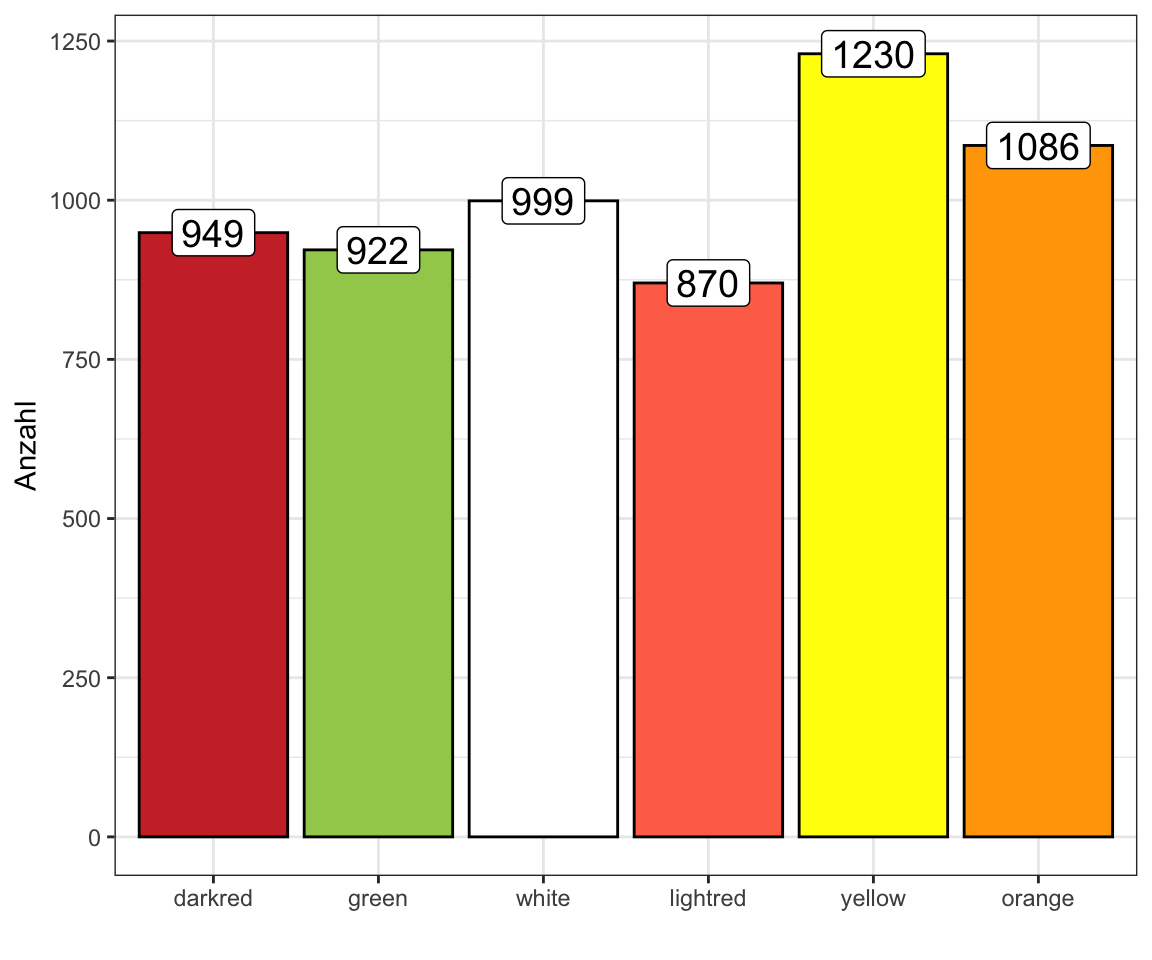
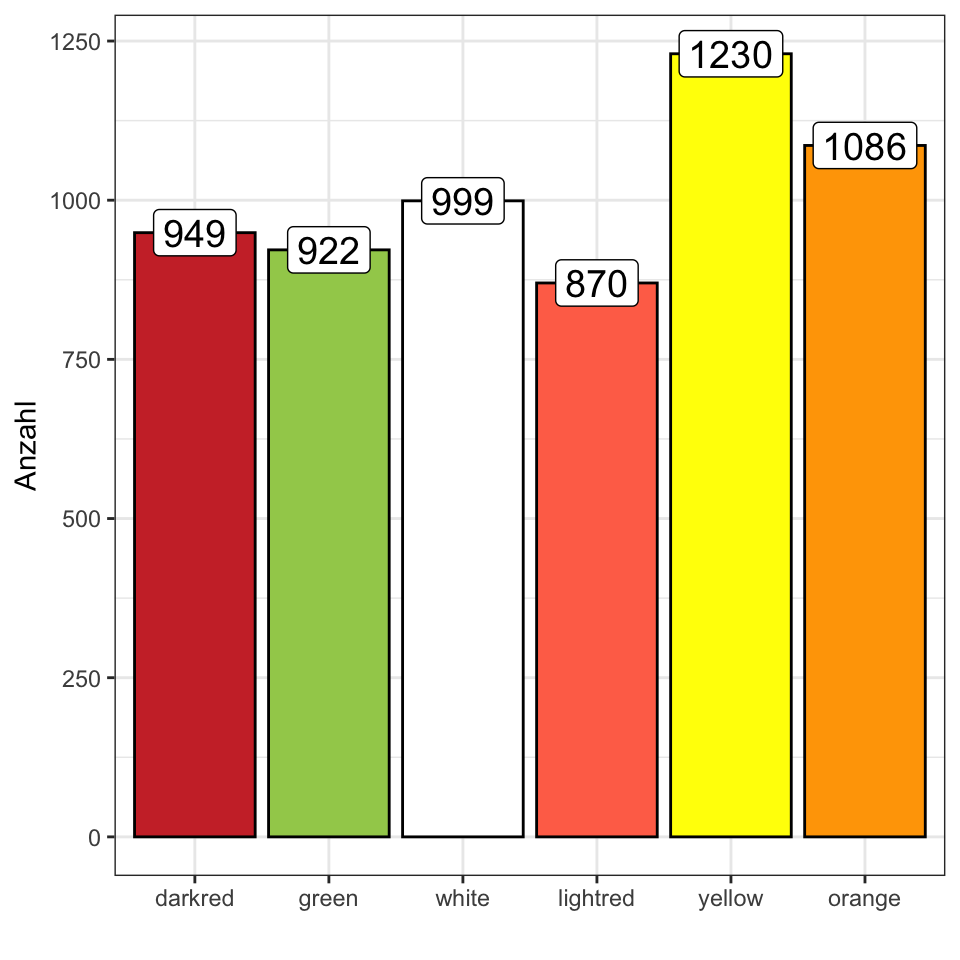
added text

diff --git a/docs/eda-distribution.html b/docs/eda-distribution.html
@@ -738,7 +738,7 @@ div.csl-indent {
 
 </header>
 
-<p><em>Letzte Änderung am 18. November 2023 um 16:28:23</em></p>
+<p><em>Letzte Änderung am 18. November 2023 um 17:16:51</em></p>
 <blockquote class="blockquote">
 <p><em>“I’m your density. I mean - your destiny.” — George McFly in Zurück in die Zukunft</em></p>
 </blockquote>
@@ -1249,7 +1249,7 @@ P_\lambda (k) = \frac{\lambda^k}{k!}\, \mathrm{e}^{-\lambda}
 <div class="cell-output-display quarto-layout-cell quarto-layout-cell-subref" style="flex-basis: 50.0%;justify-content: center;">
 <div id="fig-gummi-mostliked-1" class="quarto-figure quarto-figure-center anchored">
 <figure class="figure">
-<p><img src="eda-distribution_files/figure-html/fig-gummi-mostliked-1.png" class="img-fluid figure-img" data-ref-parent="fig-gummi-mostliked" width="576"></p>
+<p><img src="eda-distribution_files/figure-html/fig-gummi-mostliked-1.png" class="img-fluid figure-img" data-ref-parent="fig-gummi-mostliked" width="480"></p>
 <figcaption class="figure-caption">(a) Anzahl am liebsten gemochten Gummibärchen aufgeteilt nach Geschlecht.</figcaption>
 </figure>
 </div>
@@ -1257,14 +1257,46 @@ P_\lambda (k) = \frac{\lambda^k}{k!}\, \mathrm{e}^{-\lambda}
 <div class="cell-output-display quarto-layout-cell quarto-layout-cell-subref" style="flex-basis: 50.0%;justify-content: center;">
 <div id="fig-gummi-mostliked-2" class="quarto-figure quarto-figure-center anchored">
 <figure class="figure">
-<p><img src="eda-distribution_files/figure-html/fig-gummi-mostliked-2.png" class="img-fluid figure-img" data-ref-parent="fig-gummi-mostliked" width="576"></p>
-<figcaption class="figure-caption">(b) Anzahl der Gummibärchen pro Tüte nach Farbe.</figcaption>
+<p><img src="eda-distribution_files/figure-html/fig-gummi-mostliked-2.png" class="img-fluid figure-img" data-ref-parent="fig-gummi-mostliked" width="480"></p>
+<figcaption class="figure-caption">(b) Anzahl der Gummibärchen aufgeteilt nach der Farbe.</figcaption>
 </figure>
 </div>
 </div>
 </div>
 <p></p><figcaption class="figure-caption">Abbildung&nbsp;17.10— Histogramme der am liebsten gemochten Gummibärchchen im Vergleich zum Inhalt der Tütchen.</figcaption><p></p>
 </figure>
+</div>
+<div class="callout callout-style-default callout-note callout-titled">
+<div class="callout-header d-flex align-content-center" data-bs-toggle="collapse" data-bs-target=".callout-2-contents" aria-controls="callout-2" aria-expanded="false" aria-label="Toggle callout">
+<div class="callout-icon-container">
+<i class="callout-icon"></i>
+</div>
+<div class="callout-title-container flex-fill">
+Gibt es einen signifikanten Unterschied für weiße Gummibärchen?
+</div>
+<div class="callout-btn-toggle d-inline-block border-0 py-1 ps-1 pe-0 float-end"><i class="callout-toggle"></i></div>
+</div>
+<div id="callout-2" class="callout-2-contents callout-collapse collapse">
+<div class="callout-body-container callout-body">
+<p>Wenn wir testen wollen, ob es einen signifikanten Unterschied zwischen den Vorlieben zwischen Männern und Frauen für den Geschmack von weißen Gummibärchen gibt, dann können wir die Funktion <code>prop.test()</code> nutzen, die zwei Anteile vergleicht. Wir geben hier nur nicht die Anteile <span class="math inline">\(p_1 = 28/69\)</span> und <span class="math inline">\(p2 = 41/69\)</span> als Wahrscheinlichkeiten sondern eben als absolute Zahlen in die Funktion.</p>
+<div class="cell">
+<div class="sourceCode cell-code" id="cb17"><pre class="sourceCode r code-with-copy"><code class="sourceCode r"><span id="cb17-1"><a href="#cb17-1" aria-hidden="true" tabindex="-1"></a><span class="fu">prop.test</span>(<span class="at">x =</span> <span class="fu">c</span>(<span class="dv">28</span>, <span class="dv">41</span>), <span class="at">n =</span> <span class="fu">c</span>(<span class="dv">69</span>, <span class="dv">69</span>))</span></code><button title="In die Zwischenablage kopieren" class="code-copy-button"><i class="bi"></i></button></pre></div>
+<div class="cell-output cell-output-stdout">
+<pre><code>
+    2-sample test for equality of proportions with continuity correction
+
+data:  c(28, 41) out of c(69, 69)
+X-squared = 4.1739, df = 1, p-value = 0.04105
+alternative hypothesis: two.sided
+95 percent confidence interval:
+ -0.36675381 -0.01005778
+sample estimates:
+   prop 1    prop 2 
+0.4057971 0.5942029 </code></pre>
+</div>
+</div>
+</div>
+</div>
 </div>
 </section>
 <section id="sec-binom" class="level2 page-columns page-full" data-number="17.7">
@@ -1312,35 +1344,35 @@ Pr(Y = 3) &amp;= \binom {5}{3} 0.5^{3} (1-0.5)^{5-3} \\
 \]</span></p>
 <p>Wir immer können wir die ganze Rechnung dann auch in R durchführen. Dank der Funktion <code>choose()</code> können wir schnell den Binomialkoeffizienten berechnen. Der Rest ist dann nur noch das Einsetzen.</p>
 <div class="cell">
-<div class="sourceCode cell-code" id="cb17"><pre class="sourceCode r code-with-copy"><code class="sourceCode r"><span id="cb17-1"><a href="#cb17-1" aria-hidden="true" tabindex="-1"></a><span class="fu">choose</span>(<span class="dv">5</span>,<span class="dv">3</span>) <span class="sc">*</span> <span class="fl">0.5</span><span class="sc">^</span><span class="dv">3</span> <span class="sc">*</span> <span class="fl">0.5</span><span class="sc">^</span><span class="dv">2</span></span></code><button title="In die Zwischenablage kopieren" class="code-copy-button"><i class="bi"></i></button></pre></div>
+<div class="sourceCode cell-code" id="cb19"><pre class="sourceCode r code-with-copy"><code class="sourceCode r"><span id="cb19-1"><a href="#cb19-1" aria-hidden="true" tabindex="-1"></a><span class="fu">choose</span>(<span class="dv">5</span>,<span class="dv">3</span>) <span class="sc">*</span> <span class="fl">0.5</span><span class="sc">^</span><span class="dv">3</span> <span class="sc">*</span> <span class="fl">0.5</span><span class="sc">^</span><span class="dv">2</span></span></code><button title="In die Zwischenablage kopieren" class="code-copy-button"><i class="bi"></i></button></pre></div>
 <div class="cell-output cell-output-stdout">
 <pre><code>[1] 0.3125</code></pre>
 </div>
 </div>
 <p>Auch hier geht es natürlich auch in R noch einen Schritt schneller. Leider heißt dann wieder alles anders. Wir wollen <code>x = k = 3</code> Erfolge aus <code>size = n = 5</code> Versuchen mit einer Erfolgswahrscheinlichkeit von <code>prob = 0.5</code>. Daran muss man sich dann gewöhnen, dass sich die Begrifflichkeiten dann doch immer mal wieder ändern.</p>
 <div class="cell">
-<div class="sourceCode cell-code" id="cb19"><pre class="sourceCode r code-with-copy"><code class="sourceCode r"><span id="cb19-1"><a href="#cb19-1" aria-hidden="true" tabindex="-1"></a><span class="fu">dbinom</span>(<span class="at">x =</span> <span class="dv">3</span>, <span class="at">size =</span> <span class="dv">5</span>, <span class="at">prob =</span> <span class="fl">0.5</span>)</span></code><button title="In die Zwischenablage kopieren" class="code-copy-button"><i class="bi"></i></button></pre></div>
+<div class="sourceCode cell-code" id="cb21"><pre class="sourceCode r code-with-copy"><code class="sourceCode r"><span id="cb21-1"><a href="#cb21-1" aria-hidden="true" tabindex="-1"></a><span class="fu">dbinom</span>(<span class="at">x =</span> <span class="dv">3</span>, <span class="at">size =</span> <span class="dv">5</span>, <span class="at">prob =</span> <span class="fl">0.5</span>)</span></code><button title="In die Zwischenablage kopieren" class="code-copy-button"><i class="bi"></i></button></pre></div>
 <div class="cell-output cell-output-stdout">
 <pre><code>[1] 0.3125</code></pre>
 </div>
 </div>
 <p>Was wäre wenn wir jetzt die Wahrscheinlichkeit <span class="math inline">\(Pr(Y \leq 3)\)</span> berechnen wollen? Also nicht <em>exakt</em> die Wahrscheinlichkeit für <span class="math inline">\(k=3\)</span> Erfolge sondern eben <span class="math inline">\(k\)</span> Erfolge oder weniger <span class="math inline">\(k \leq 3\)</span>. Dann müssen wir die Wahrscheinlichkeiten für <span class="math inline">\(Pr(Y = 0)\)</span>, <span class="math inline">\(Pr(Y = 1)\)</span>, <span class="math inline">\(Pr(Y = 2 )\)</span> und <span class="math inline">\(Pr(Y = 3)\)</span> berechnen und diese Wahrscheinlichkeiten aufaddieren.</p>
 <div class="cell">
-<div class="sourceCode cell-code" id="cb21"><pre class="sourceCode r code-with-copy"><code class="sourceCode r"><span id="cb21-1"><a href="#cb21-1" aria-hidden="true" tabindex="-1"></a><span class="fu">dbinom</span>(<span class="dv">0</span>, <span class="dv">5</span>, <span class="fl">0.5</span>) <span class="sc">+</span> <span class="fu">dbinom</span>(<span class="dv">1</span>, <span class="dv">5</span>, <span class="fl">0.5</span>) <span class="sc">+</span> <span class="fu">dbinom</span>(<span class="dv">2</span>, <span class="dv">5</span>, <span class="fl">0.5</span>) <span class="sc">+</span> <span class="fu">dbinom</span>(<span class="dv">3</span>, <span class="dv">5</span>, <span class="fl">0.5</span>)</span></code><button title="In die Zwischenablage kopieren" class="code-copy-button"><i class="bi"></i></button></pre></div>
+<div class="sourceCode cell-code" id="cb23"><pre class="sourceCode r code-with-copy"><code class="sourceCode r"><span id="cb23-1"><a href="#cb23-1" aria-hidden="true" tabindex="-1"></a><span class="fu">dbinom</span>(<span class="dv">0</span>, <span class="dv">5</span>, <span class="fl">0.5</span>) <span class="sc">+</span> <span class="fu">dbinom</span>(<span class="dv">1</span>, <span class="dv">5</span>, <span class="fl">0.5</span>) <span class="sc">+</span> <span class="fu">dbinom</span>(<span class="dv">2</span>, <span class="dv">5</span>, <span class="fl">0.5</span>) <span class="sc">+</span> <span class="fu">dbinom</span>(<span class="dv">3</span>, <span class="dv">5</span>, <span class="fl">0.5</span>)</span></code><button title="In die Zwischenablage kopieren" class="code-copy-button"><i class="bi"></i></button></pre></div>
 <div class="cell-output cell-output-stdout">
 <pre><code>[1] 0.8125</code></pre>
 </div>
 </div>
 <p>Oder wir rechen einfach die Fläche und damit die Wahrscheinlichkeit links von <span class="math inline">\(k = 3\)</span> aus. Dafür haben wir dann die Funktion <code>pbinom()</code>. Es geht dann eben doch etwas flotter. Wie immer können wir dann über die Option <code>lower.tail =</code> entscheiden, auf welche Seite der Verteilung wir schauen wollen.</p>
 <div class="cell">
-<div class="sourceCode cell-code" id="cb23"><pre class="sourceCode r code-with-copy"><code class="sourceCode r"><span id="cb23-1"><a href="#cb23-1" aria-hidden="true" tabindex="-1"></a><span class="fu">pbinom</span>(<span class="dv">3</span>, <span class="dv">5</span>, <span class="fl">0.5</span>, <span class="at">lower.tail =</span> <span class="cn">TRUE</span>)</span></code><button title="In die Zwischenablage kopieren" class="code-copy-button"><i class="bi"></i></button></pre></div>
+<div class="sourceCode cell-code" id="cb25"><pre class="sourceCode r code-with-copy"><code class="sourceCode r"><span id="cb25-1"><a href="#cb25-1" aria-hidden="true" tabindex="-1"></a><span class="fu">pbinom</span>(<span class="dv">3</span>, <span class="dv">5</span>, <span class="fl">0.5</span>, <span class="at">lower.tail =</span> <span class="cn">TRUE</span>)</span></code><button title="In die Zwischenablage kopieren" class="code-copy-button"><i class="bi"></i></button></pre></div>
 <div class="cell-output cell-output-stdout">
 <pre><code>[1] 0.8125</code></pre>
 </div>
 </div>
 <p>Angenommen, eine Münze wird so gewichtet, dass sie in 60 % der Fälle Kopf ergibt. Wie hoch ist die Wahrscheinlichkeit, dass Sie nach 50 Würfen 25 oder mehr Köpfe erhalten? Dafür können wir dann auch die Funktion <code>pbinom()</code> einmal nutzen. Da wir <em>mehr</em> wollen, also “größer als”, müssen wir rechts von dem berechneten Wert schauen, also auswählen, dass <code>lower.tail = FALSE</code> ist.</p>
 <div class="cell">
-<div class="sourceCode cell-code" id="cb25"><pre class="sourceCode r code-with-copy"><code class="sourceCode r"><span id="cb25-1"><a href="#cb25-1" aria-hidden="true" tabindex="-1"></a><span class="fu">pbinom</span>(<span class="dv">25</span>, <span class="dv">50</span>, <span class="fl">0.6</span>, <span class="at">lower.tail =</span> <span class="cn">FALSE</span>)</span></code><button title="In die Zwischenablage kopieren" class="code-copy-button"><i class="bi"></i></button></pre></div>
+<div class="sourceCode cell-code" id="cb27"><pre class="sourceCode r code-with-copy"><code class="sourceCode r"><span id="cb27-1"><a href="#cb27-1" aria-hidden="true" tabindex="-1"></a><span class="fu">pbinom</span>(<span class="dv">25</span>, <span class="dv">50</span>, <span class="fl">0.6</span>, <span class="at">lower.tail =</span> <span class="cn">FALSE</span>)</span></code><button title="In die Zwischenablage kopieren" class="code-copy-button"><i class="bi"></i></button></pre></div>
 <div class="cell-output cell-output-stdout">
 <pre><code>[1] 0.9021926</code></pre>
 </div>
